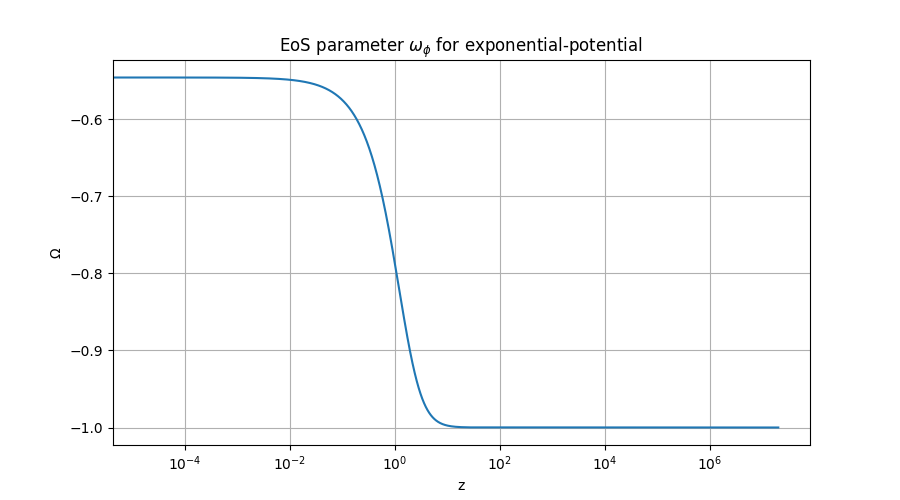
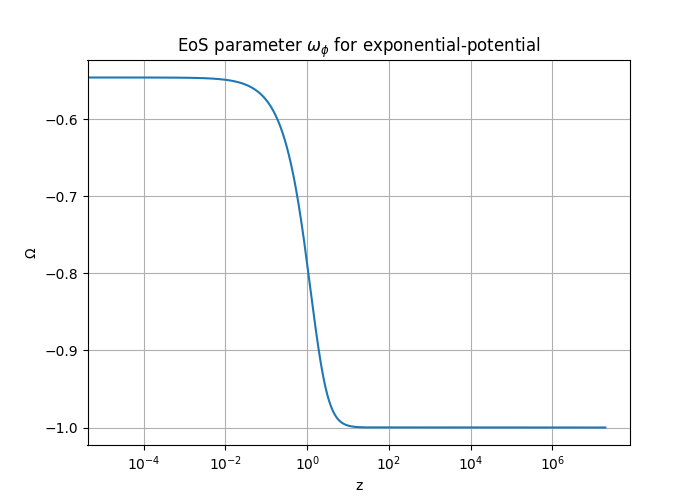
figsizes

diff --git a/Projects/Project 1/Source-code/problem9.py b/Projects/Project 1/Source-code/problem9.py
@@ -195,6 +195,7 @@ def plot_eos_parameter(V: str, filename=None, figsize=(9, 5), prnt=True) -> None
 
 if __name__ == "__main__":
     # Create figures for both potentials
+    figsize = (7, 5)
     for V in ["power", "exponential"]:
-        plot_density_parameters(V)
-        plot_eos_parameter(V)
+        plot_density_parameters(V, figsize=figsize)
+        plot_eos_parameter(V, figsize=figsize)
